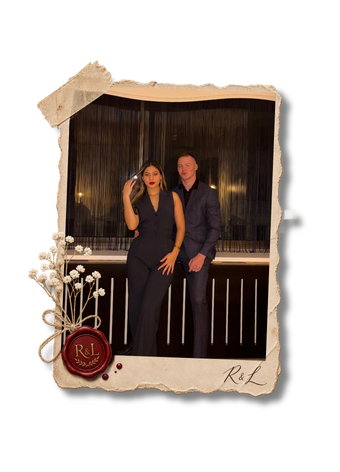
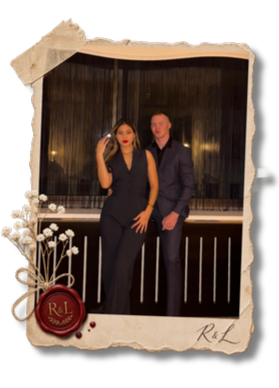
Se implementa animacion inicial

diff --git a/src/styles.css b/src/styles.css
@@ -85,6 +85,10 @@ body {
   pointer-events: none;
 }
 
+.page-7 {
+  padding-bottom: 80px !important;
+}
+
 /* Passport Intro Screen: first interaction on page load */
 .passport-intro {
   position: fixed;
@@ -507,7 +511,14 @@ body {
   padding: 10px 10px 0 10px;
   border-radius: 2px;
   box-shadow: 0 8px 20px rgba(0, 0, 0, 0.35);
+  transform: translateY(35%);
+  transition: transform 2.8s cubic-bezier(0.16, 1, 0.3, 1) 0.6s;
 }
+
+.wedding-site.is-visible .photo-frame {
+  transform: translateY(0);
+}
+
 
 .couple-photo-img {
   width: 100%;
@@ -1255,7 +1266,7 @@ body {
   border-radius: 3px;
   overflow: hidden;
   position: relative;
-  box-shadow: inset 0 1px 2px rgba(0,0,0,0.1);
+  box-shadow: inset 0 1px 2px rgba(0, 0, 0, 0.1);
 }
 
 .preloader-progress-bar {
